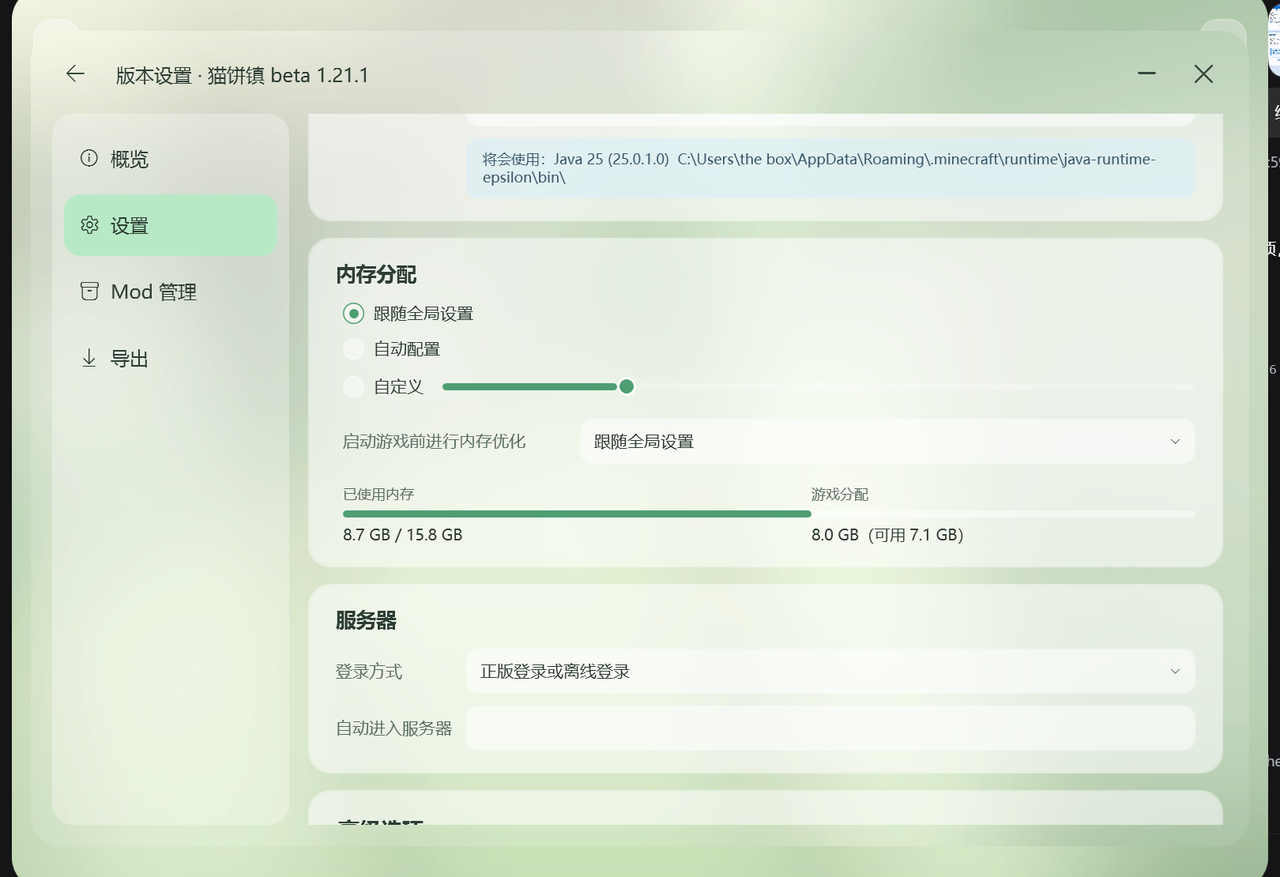
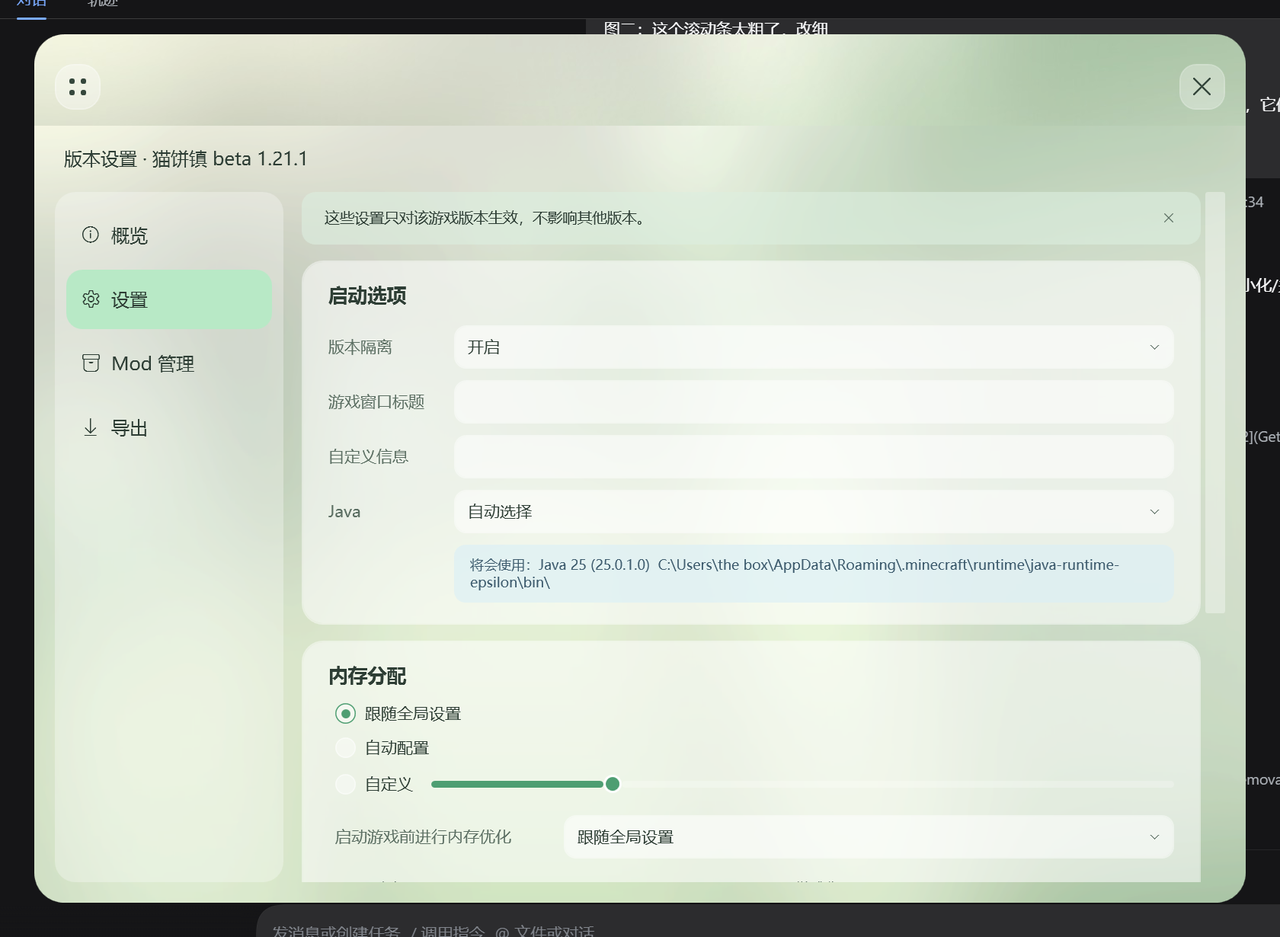
fix: 版本设置改为同窗口底部滑出浮层，修正滚动条/回顶按钮/导出项

Changed region(s): [[0.0, 0.0, 1.0, 1.0], [0.4375, 0.6465, 0.625, 0.7081], [0.4688, 0.4926, 0.5625, 0.5234]]

diff --git a/src/MutsumiLauncher/Views/VersionSettingsView.xaml b/src/MutsumiLauncher/Views/VersionSettingsView.xaml
@@ -1,0 +1,69 @@
+<UserControl x:Class="MutsumiLauncher.Views.VersionSettingsView"
+             xmlns="http://schemas.microsoft.com/winfx/2006/xaml/presentation"
+             xmlns:x="http://schemas.microsoft.com/winfx/2006/xaml"
+             FontFamily="{StaticResource UiFont}">
+
+    <Border Background="#F2F7FBF4" CornerRadius="22" ClipToBounds="True">
+        <Grid>
+            <Image Source="/Assets/background.jpg" Stretch="UniformToFill" Margin="-90">
+                <Image.Effect>
+                    <BlurEffect Radius="34" KernelType="Gaussian" />
+                </Image.Effect>
+            </Image>
+            <Border Background="#40FFFFFF" />
+
+            <Grid>
+                <Grid.RowDefinitions>
+                    <RowDefinition Height="58" />
+                    <RowDefinition Height="*" />
+                </Grid.RowDefinitions>
+
+                <TextBlock Text="版本设置 · 猫饼镇 beta 1.21.1" FontSize="16"
+                           Foreground="{StaticResource Ink}" VerticalAlignment="Center"
+                           Margin="26,0,0,0" />
+
+                <Grid Grid.Row="1" Margin="18,0,18,18">
+                    <Grid.ColumnDefinitions>
+                        <ColumnDefinition Width="200" />
+                        <ColumnDefinition Width="*" />
+                    </Grid.ColumnDefinitions>
+
+                    <Border Background="#4DFFFFFF" CornerRadius="18" Padding="10">
+                        <StackPanel>
+                            <RadioButton Style="{StaticResource SidebarItem}" GroupName="SettingsNav"
+                                         Tag="overview" IsChecked="True" Checked="Nav_Checked">
+                                <StackPanel Orientation="Horizontal">
+                                    <TextBlock Text="&#xE946;" Style="{StaticResource Glyph}" Margin="0,0,10,0" />
+                                    <TextBlock Text="概览" VerticalAlignment="Center" />
+                                </StackPanel>
+                            </RadioButton>
+                            <RadioButton Style="{StaticResource SidebarItem}" GroupName="SettingsNav"
+                                         Tag="launch" Checked="Nav_Checked">
+                                <StackPanel Orientation="Horizontal">
+                                    <TextBlock Text="&#xE713;" Style="{StaticResource Glyph}" Margin="0,0,10,0" />
+                                    <TextBlock Text="设置" VerticalAlignment="Center" />
+                                </StackPanel>
+                            </RadioButton>
+                            <RadioButton Style="{StaticResource SidebarItem}" GroupName="SettingsNav"
+                                         Tag="mods" Checked="Nav_Checked">
+                                <StackPanel Orientation="Horizontal">
+                                    <TextBlock Text="&#xE7B8;" Style="{StaticResource Glyph}" Margin="0,0,10,0" />
+                                    <TextBlock Text="Mod 管理" VerticalAlignment="Center" />
+                                </StackPanel>
+                            </RadioButton>
+                            <RadioButton Style="{StaticResource SidebarItem}" GroupName="SettingsNav"
+                                         Tag="export" Checked="Nav_Checked">
+                                <StackPanel Orientation="Horizontal">
+                                    <TextBlock Text="&#xE896;" Style="{StaticResource Glyph}" Margin="0,0,10,0" />
+                                    <TextBlock Text="导出" VerticalAlignment="Center" />
+                                </StackPanel>
+                            </RadioButton>
+                        </StackPanel>
+                    </Border>
+
+                    <ContentControl x:Name="PageHost" Grid.Column="1" Margin="16,0,0,0" />
+                </Grid>
+            </Grid>
+        </Grid>
+    </Border>
+</UserControl>

diff --git a/src/MutsumiLauncher/Views/VersionSettings/ExportPage.xaml b/src/MutsumiLauncher/Views/VersionSettings/ExportPage.xaml
@@ -125,22 +125,6 @@
                         <CheckBox Style="{StaticResource MtlCheckBox}" Margin="0,10,0,0"
                                   Content="多人游戏服务器列表" />
 
-                        <CheckBox Style="{StaticResource MtlCheckBox}" IsChecked="True" Margin="0,16,0,0">
-                            <StackPanel Orientation="Horizontal">
-                                <TextBlock Text="PCL 启动器程序" FontSize="14" Foreground="{StaticResource Ink}" />
-                                <TextBlock Text="打包正式版 PCL，以便没有启动器的玩家安装整合包" FontSize="12"
-                                           Foreground="{StaticResource InkMute}" Margin="10,0,0,0"
-                                           VerticalAlignment="Center" />
-                            </StackPanel>
-                        </CheckBox>
-                        <CheckBox Style="{StaticResource MtlCheckBox}" IsChecked="True" Margin="28,10,0,0">
-                            <StackPanel Orientation="Horizontal">
-                                <TextBlock Text="PCL 个性化内容" FontSize="14" Foreground="{StaticResource Ink}" />
-                                <TextBlock Text="功能隐藏设置、主页、背景音乐和图片等" FontSize="12"
-                                           Foreground="{StaticResource InkMute}" Margin="10,0,0,0"
-                                           VerticalAlignment="Center" />
-                            </StackPanel>
-                        </CheckBox>
                     </StackPanel>
                 </StackPanel>
             </Border>

diff --git a/src/MutsumiLauncher/Themes/Styles.xaml b/src/MutsumiLauncher/Themes/Styles.xaml
@@ -688,7 +688,7 @@
 
     <!-- ============ 滚动条 ============ -->
     <Style TargetType="ScrollBar">
-        <Setter Property="Width" Value="8" />
+        <Setter Property="Width" Value="4" />
         <Setter Property="Background" Value="Transparent" />
         <Setter Property="Template">
             <Setter.Value>
@@ -702,7 +702,7 @@
                                 <Thumb>
                                     <Thumb.Template>
                                         <ControlTemplate TargetType="Thumb">
-                                            <Border Background="#59FFFFFF" CornerRadius="4" Margin="1,0" />
+                                            <Border Background="#59FFFFFF" CornerRadius="2" />
                                         </ControlTemplate>
                                     </Thumb.Template>
                                 </Thumb>

diff --git a/src/MutsumiLauncher/Views/MainWindow.xaml b/src/MutsumiLauncher/Views/MainWindow.xaml
@@ -109,6 +109,15 @@
 
                     <!-- 页面宿主 -->
                     <ContentControl x:Name="PageHost" Grid.Row="1" />
+
+                    <!-- 版本设置浮层：从底部滑出，覆盖内容区（不含标题栏） -->
+                    <ContentControl x:Name="SettingsHost" Grid.Row="1" Panel.ZIndex="20"
+                                    Visibility="Collapsed" HorizontalContentAlignment="Stretch"
+                                    VerticalContentAlignment="Stretch">
+                        <ContentControl.RenderTransform>
+                            <TranslateTransform Y="0" />
+                        </ContentControl.RenderTransform>
+                    </ContentControl>
                 </Grid>
 
                 <!-- 轻提示 -->

diff --git a/src/MutsumiLauncher/Views/VersionSettings/ModManagePage.xaml b/src/MutsumiLauncher/Views/VersionSettings/ModManagePage.xaml
@@ -78,9 +78,9 @@
                     </ItemsControl>
                 </ScrollViewer>
 
-                <Button Style="{StaticResource CircleButton}" Content="&#xE70E;"
+                <Button Grid.Row="1" Style="{StaticResource CircleButton}" Content="&#xE70E;"
                         HorizontalAlignment="Right" VerticalAlignment="Bottom"
-                        Margin="0,0,8,8" Click="ScrollTop_Click" ToolTip="回到顶部" />
+                        Margin="0,0,10,10" Click="ScrollTop_Click" ToolTip="回到顶部" />
             </Grid>
         </Border>
     </Grid>

diff --git a/src/MutsumiLauncher/Views/MainWindow.xaml.cs b/src/MutsumiLauncher/Views/MainWindow.xaml.cs
@@ -16,6 +16,8 @@ public partial class MainWindow : Window
     private readonly DispatcherTimer _toastTimer = new() { Interval = TimeSpan.FromSeconds(2.4) };
     private bool _suppressNav;
     private bool _navExpanded;
+    private bool _settingsOpen;
+    private VersionSettingsView? _settingsView;
     private string _currentPage = "launch";
 
     public MainWindow()
@@ -48,7 +50,7 @@ public partial class MainWindow : Window
 
             if (Environment.GetEnvironmentVariable("MTL_OPEN_SETTINGS") == "1")
             {
-                new VersionSettingsWindow { Owner = this }.Show();
+                OpenVersionSettings();
             }
         };
         SizeChanged += (_, _) => UpdateShellClip();
@@ -166,7 +168,55 @@ public partial class MainWindow : Window
     private void Nav_Checked(object sender, RoutedEventArgs e)
     {
         if (_suppressNav || _pages.Count == 0) return;
-        if (sender is RadioButton { Tag: string key }) ShowPage(key);
+        if (sender is not RadioButton { Tag: string key }) return;
+
+        if (_settingsOpen) CloseVersionSettings();
+        ShowPage(key);
+    }
+
+    /// <summary>在主窗口内从底部滑出版本设置。</summary>
+    public void OpenVersionSettings()
+    {
+        if (_settingsOpen) return;
+        _settingsOpen = true;
+
+        _settingsView ??= new VersionSettingsView();
+        SettingsHost.Content = _settingsView;
+        SettingsHost.Visibility = Visibility.Visible;
+
+        // 标题栏保持可用，但不选中任何页签
+        NavTabs.Visibility = Visibility.Visible;
+        _suppressNav = true;
+        NavLaunch.IsChecked = false;
+        NavDownload.IsChecked = false;
+        NavSettings.IsChecked = false;
+        _suppressNav = false;
+
+        var translate = (TranslateTransform)SettingsHost.RenderTransform;
+        var ease = new CubicEase { EasingMode = EasingMode.EaseOut };
+
+        SettingsHost.Opacity = 0;
+        translate.Y = 240;
+        SettingsHost.BeginAnimation(OpacityProperty,
+            new DoubleAnimation(0, 1, TimeSpan.FromMilliseconds(240)) { EasingFunction = ease });
+        translate.BeginAnimation(TranslateTransform.YProperty,
+            new DoubleAnimation(240, 0, TimeSpan.FromMilliseconds(340)) { EasingFunction = ease });
+    }
+
+    private void CloseVersionSettings()
+    {
+        if (!_settingsOpen) return;
+        _settingsOpen = false;
+
+        var translate = (TranslateTransform)SettingsHost.RenderTransform;
+        var ease = new CubicEase { EasingMode = EasingMode.EaseIn };
+
+        SettingsHost.BeginAnimation(OpacityProperty,
+            new DoubleAnimation(1, 0, TimeSpan.FromMilliseconds(200)) { EasingFunction = ease });
+
+        var slide = new DoubleAnimation(0, 240, TimeSpan.FromMilliseconds(260)) { EasingFunction = ease };
+        slide.Completed += (_, _) => SettingsHost.Visibility = Visibility.Collapsed;
+        translate.BeginAnimation(TranslateTransform.YProperty, slide);
     }
 
     private void MenuButton_Click(object sender, RoutedEventArgs e) => SetNavExpanded(!_navExpanded);

diff --git a/src/MutsumiLauncher/Views/VersionSettingsView.xaml.cs b/src/MutsumiLauncher/Views/VersionSettingsView.xaml.cs
@@ -1,16 +1,14 @@
 using System.Windows;
 using System.Windows.Controls;
-using System.Windows.Input;
-using System.Windows.Media;
 using MutsumiLauncher.Views.VersionSettings;
 
 namespace MutsumiLauncher.Views;
 
-public partial class VersionSettingsWindow : Window
+public partial class VersionSettingsView : UserControl
 {
     private readonly Dictionary<string, UserControl> _pages = new(StringComparer.Ordinal);
 
-    public VersionSettingsWindow()
+    public VersionSettingsView()
     {
         InitializeComponent();
 
@@ -19,19 +17,7 @@ public partial class VersionSettingsWindow : Window
         _pages["mods"] = new ModManagePage();
         _pages["export"] = new ExportPage();
 
-        Loaded += (_, _) =>
-        {
-            UpdateClip();
-            ShowPage("overview");
-        };
-        SizeChanged += (_, _) => UpdateClip();
-    }
-
-    private void UpdateClip()
-    {
-        if (Shell.ActualWidth <= 0 || Shell.ActualHeight <= 0) return;
-        Shell.Clip = new RectangleGeometry(
-            new Rect(0, 0, Shell.ActualWidth, Shell.ActualHeight), 24, 24);
+        ShowPage("overview");
     }
 
     private void ShowPage(string key)
@@ -49,13 +35,4 @@ public partial class VersionSettingsWindow : Window
         if (_pages.Count == 0) return;
         if (sender is RadioButton { Tag: string key }) ShowPage(key);
     }
-
-    private void TitleBar_MouseLeftButtonDown(object sender, MouseButtonEventArgs e)
-    {
-        if (e.ButtonState == MouseButtonState.Pressed) DragMove();
-    }
-
-    private void Minimize_Click(object sender, RoutedEventArgs e) => WindowState = WindowState.Minimized;
-
-    private void Close_Click(object sender, RoutedEventArgs e) => Close();
 }

diff --git a/src/MutsumiLauncher/Views/Pages/LaunchPage.xaml.cs b/src/MutsumiLauncher/Views/Pages/LaunchPage.xaml.cs
@@ -46,8 +46,6 @@ public partial class LaunchPage : UserControl
 
     private void VersionSettings_Click(object sender, RoutedEventArgs e)
     {
-        var window = new VersionSettingsWindow();
-        if (Window.GetWindow(this) is { } owner) window.Owner = owner;
-        window.Show();
+        (Window.GetWindow(this) as MainWindow)?.OpenVersionSettings();
     }
 }

diff --git a/README.md b/README.md
@@ -58,7 +58,7 @@ MutsumiLauncher/
 - **下载页**：左侧来源列表（原版资源 / 社区资源及其子类），右侧「最新版本」卡片 + 四个可折叠版本分组，切换页面时背景自动高斯模糊。
 - **设置页**：外观、下载源、Java、数据目录占位项。
 - **汉堡菜单**：点击左上角按钮，导航条会从按钮本身的形状向右生长成整条玻璃导航层（启动 / 下载 / 设置），右侧关闭按钮的底片同步溶解、与导航条融为一条；启动页上点击层外自动收起，子页上常驻；页面切换带淡入动画；底部有轻提示（Toast）。
-- **版本设置窗口**：启动页版本胶囊右侧的齿轮打开；左侧「概览 / 设置 / Mod 管理 / 导出」四页，玻璃卡片 + 自绘下拉框 / 勾选框 / 单选按钮 / 滑杆。
+- **版本设置浮层**：启动页版本胶囊右侧的齿轮打开，在同一窗口内从底部滑出（不单独占窗口/任务栏，拖动与关闭仍走主窗口标题栏）；左侧「概览 / 设置 / Mod 管理 / 导出」四页，玻璃卡片 + 自绘下拉框 / 勾选框 / 单选按钮 / 滑杆。
   - 概览：版本信息、个性化、快捷方式、高级管理（导出启动脚本 / 补全文件 / 删除版本）
   - 设置：启动选项、内存分配（滑杆 + 内存占用条）、服务器、高级选项折叠区、全局设置入口
   - Mod 管理：名称搜索、启用状态过滤、回到顶部悬浮按钮
